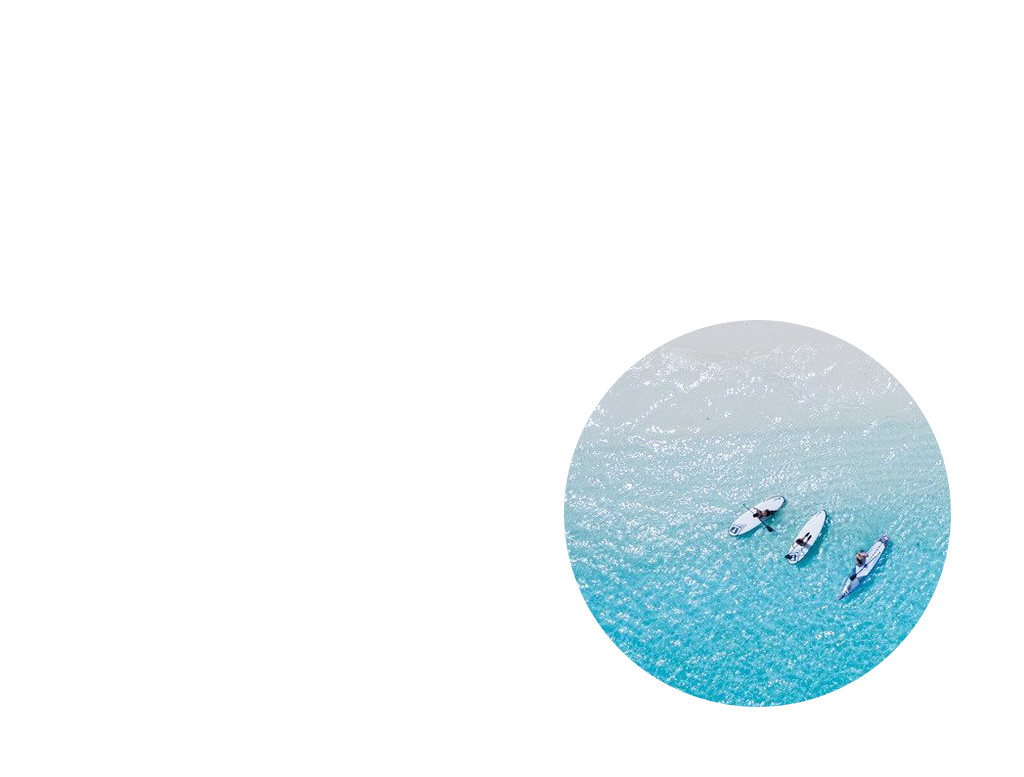
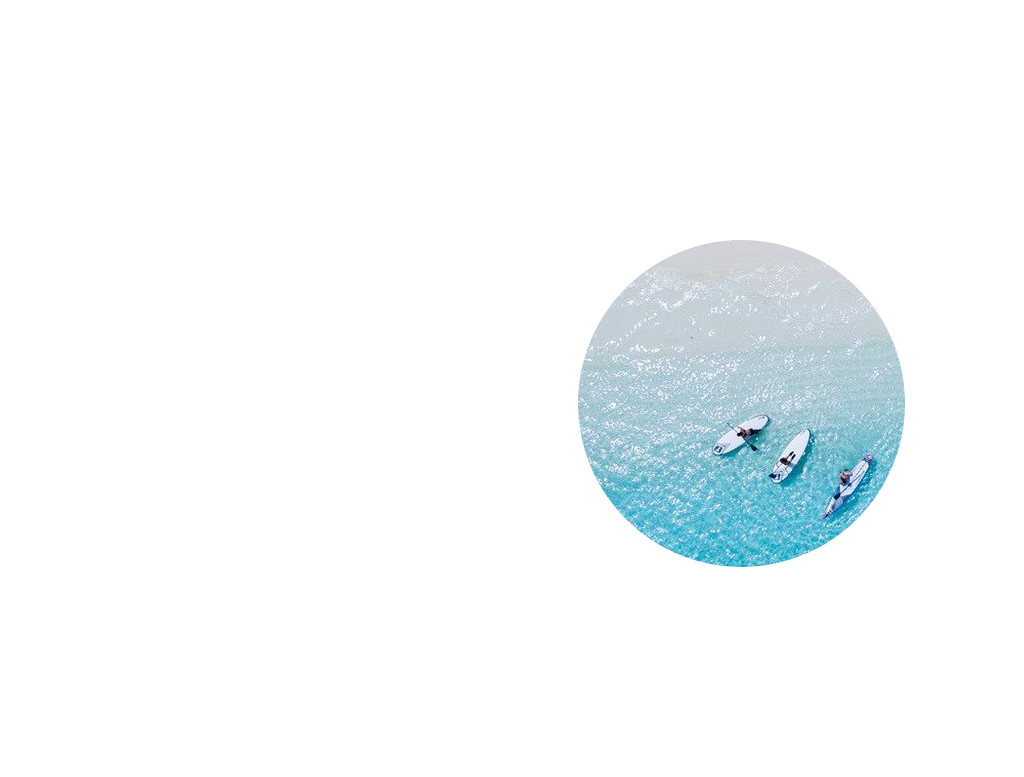
Updated the Landing page UI

Changed region(s): [[0.5312, 0.3089, 0.9375, 0.9266]]

diff --git a/surf_app/static/style_main.css b/surf_app/static/style_main.css
@@ -1,8 +1,10 @@
+html{
+  /* height: 100% */
+}
+
 body {
   padding-top: 50px;
-  font-family: 'Raleway', sans-serif;
-  /* background-image: url(images/surf_bg_2.jpg);
-  background-size: cover; */
+  font-family: "Helvetica Neue", Helvetica,'Raleway', sans-serif;
 }
 
 .input-forms{
@@ -14,14 +16,20 @@ body {
 }
 
 .jumbo-landing-page {
-  background-image: url(images/surf_bg_2.jpg);
+  background-image: url(images/surf_bg_2_cropped.jpg);
   background-size: cover;
-  text-align: center;
-  height: 700px;
+  height: 100vh;
+  display: flex;
+  flex-direction: column;
+  justify-content: top;
+  /* align-items: center; */
+  padding-top: 15%;
+  padding-left: 5%;
+  font-family: "Helvetica Neue", Helvetica;
 }
 
 .jumbo-landing-page p {
-  color: black;
+  color: #0a7e8c;
 }
 
 .jumbo-index {
@@ -44,6 +52,40 @@ body {
   background: rgba(137, 195, 233, 0.3)
 }
 
+.custom-navbar {
+  background: white;
+  padding-right: 5%;
+  padding-left: 5%;
+  padding-top: 5px;
+}
+
+.custom-navbar a{
+  color: #0a7e8c;
+}
+
+#landing-page-header{
+  font-family: "Helvetica Neue", Helvetica, serif;
+  font-weight: 150;
+  letter-spacing: 0.08em;
+  font-size: 4.5em;
+}
+
+#btn-nav-register{
+  border-radius: 4px;
+  background-color: white;
+  color: #0a7e8c;
+  border: 2px solid #0a7e8c;
+  padding: 12px;
+  margin-right: 5px;
+}
+
+#btn-nav-register:hover{
+  background-color: #dce9eb;
+}
+
+#btn-landing-page-join{
+  background-color: #0a7e8c;
+}
 /*
 .Absolute-Center {
   margin: auto;

diff --git a/surf_app/templates/blog/landing_page.html b/surf_app/templates/blog/landing_page.html
@@ -2,12 +2,9 @@
 
 {% block content %}
     <div class="jumbo-landing-page">
-      <div class="container">
-        <h1 class="display-1">Welcome to Surf Central!</h1>
-        <h3 class="support-header-text">Your one-stop for all things surfing in the Bay, sign-up now and connect with
-        your friends!</h3>
-        <p><a class="btn btn-primary btn-lg" href="{{ url_for('auth.register') }}"
-          role="button">Sign up</a></p>
-      </div>
+        <p id="landing-page-header">Welcome to your<br>Surfing community!</p>
+        <p class="landing-page-support-text"></p>
+        <p><a class="btn btn-primary btn-lg" id="btn-landing-page-join" href="{{ url_for('auth.register') }}"
+          role="button">Join</a></p>
     </div>
 {% endblock %}

diff --git a/surf_app/templates/base.html b/surf_app/templates/base.html
@@ -30,7 +30,7 @@
               {{ g.user['username'] }}</a></li>
             <li><a href="{{ url_for('auth.logout') }}">Logout</a></li>
           {% else %}
-            <li><a href="{{ url_for('auth.register') }}">Register</a></li>
+            <li><a id="btn-nav-register" href="{{ url_for('auth.register') }}">Register</a></li>
             <li><a href="{{ url_for('auth.login') }}">Login</a></li>
           {% endif %}
     </ul>
